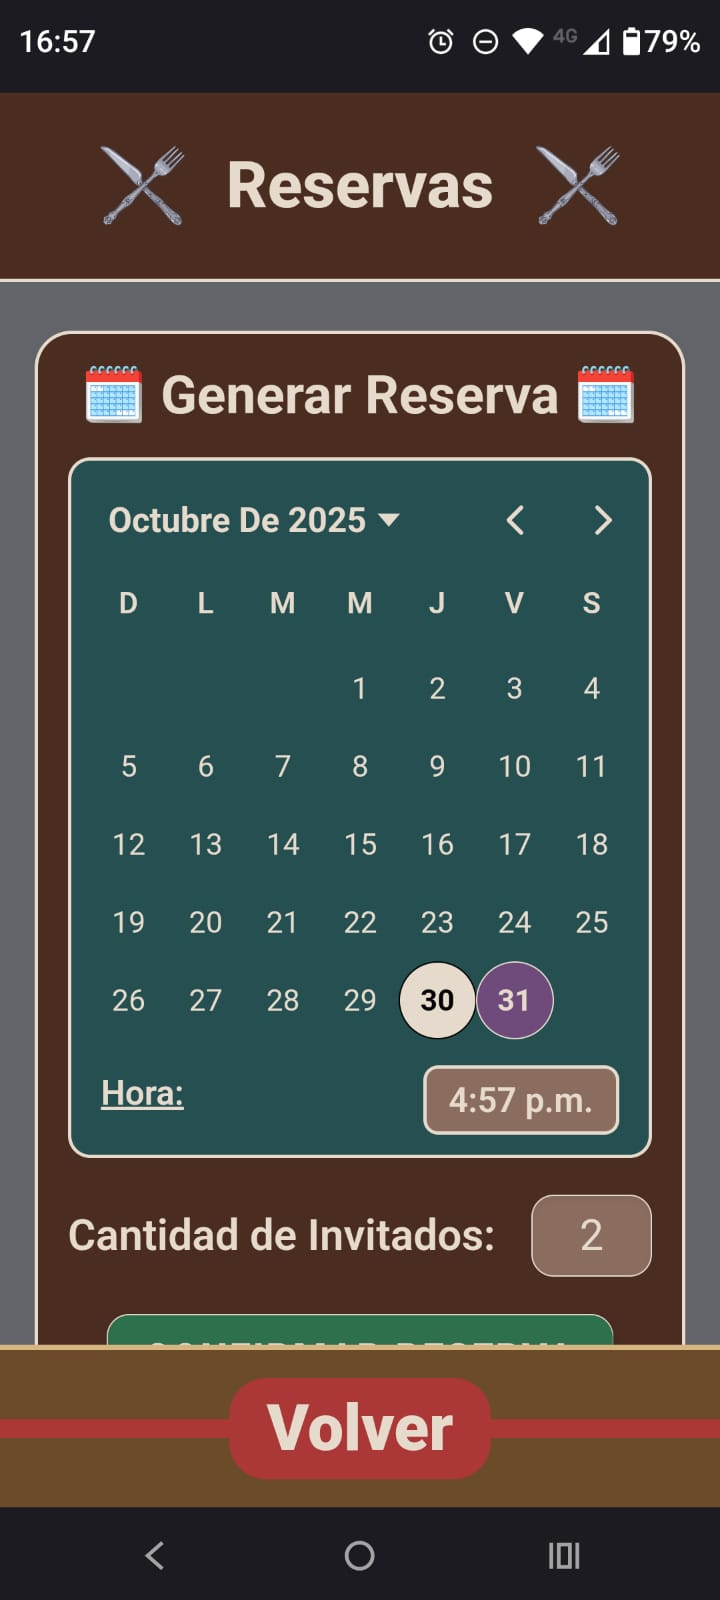
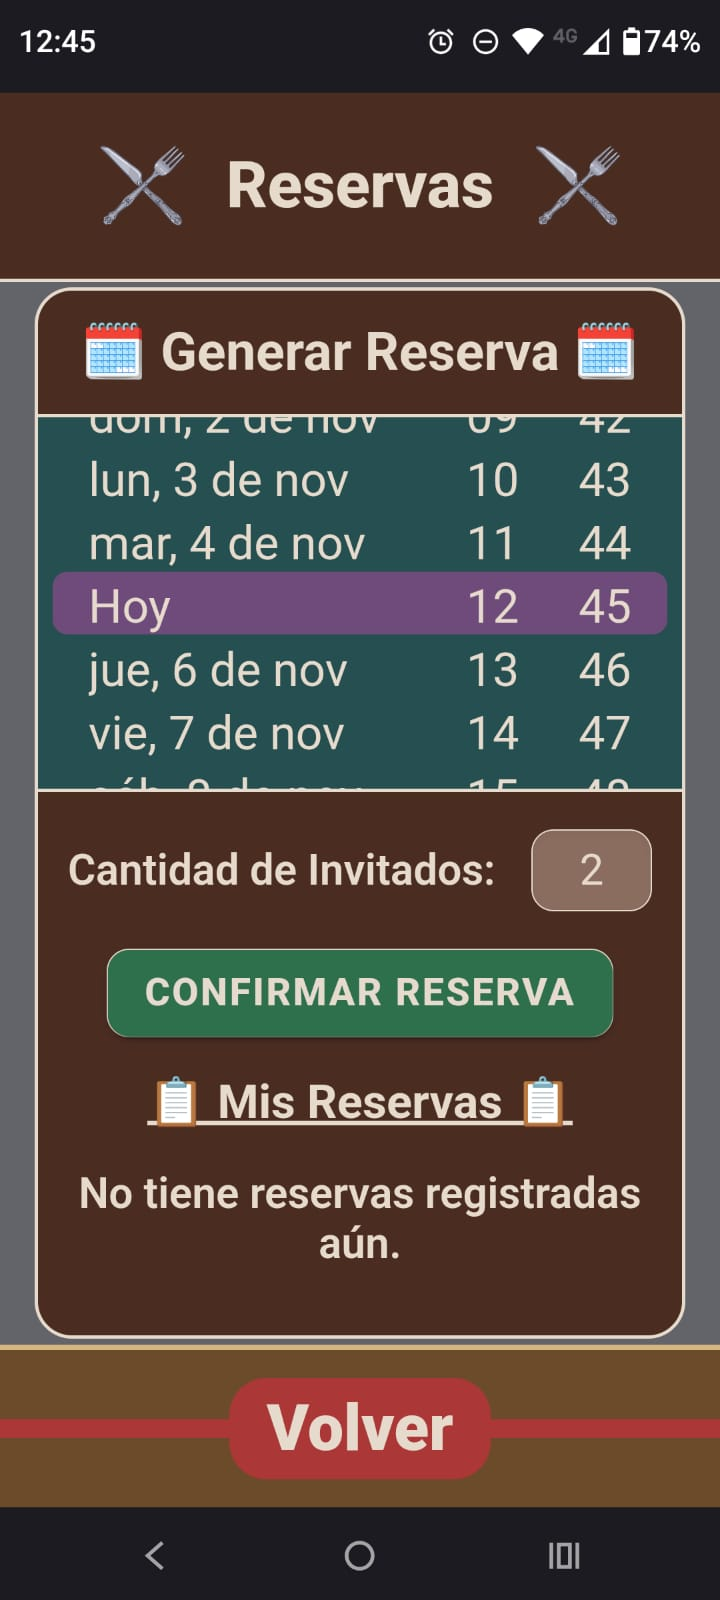
Agrego de imagenes

diff --git a/src/app/pages/reservas-cliente/reservas-cliente.page.scss b/src/app/pages/reservas-cliente/reservas-cliente.page.scss
@@ -132,7 +132,7 @@
   justify-content: center;
   align-items: self-start;
   gap: 10px;
-  background: var(--color-input);
+  background: var(--color-btn-secondary);
   border: 2px solid var(--color-text);
   border-radius: 14px;
   padding: 10px;

diff --git a/README.md b/README.md
@@ -343,7 +343,6 @@ Quitar la pantalla de credenciales invalidas, eso debería ser un mensaje de err
   <img src="src/assets/imagesGithub/reservas-3.jpeg" alt="Reservas 3" width="400" height="800">
   <img src="src/assets/imagesGithub/reservas-4.jpeg" alt="Reservas 4" width="400" height="800">
   <img src="src/assets/imagesGithub/reservas-5.jpeg" alt="Reservas 5" width="400" height="800">
-  <img src="src/assets/imagesGithub/reservas-6.jpeg" alt="Reservas 6" width="400" height="800">
   <img src="src/assets/imagesGithub/rechazar-reserva.jpeg" alt="Rechazar Reserva" width="400" height="800">
   <img src="src/assets/imagesGithub/eleccion-fecha.jpeg" alt="Elección Fecha" width="400" height="800">
   <img src="src/assets/imagesGithub/eleccion-hora.jpeg" alt="Elección Hora" width="400" height="800">
